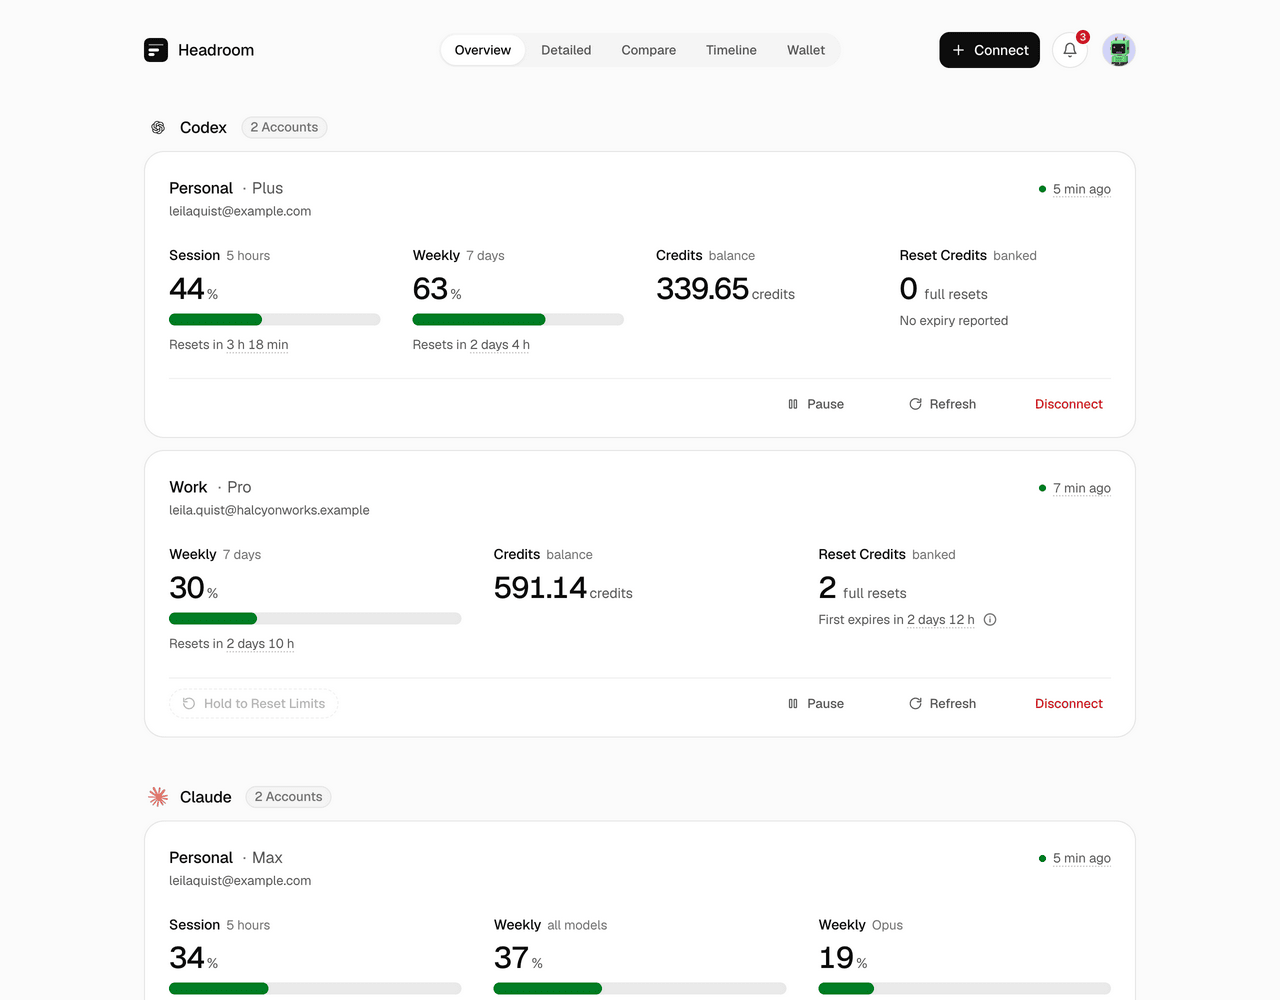
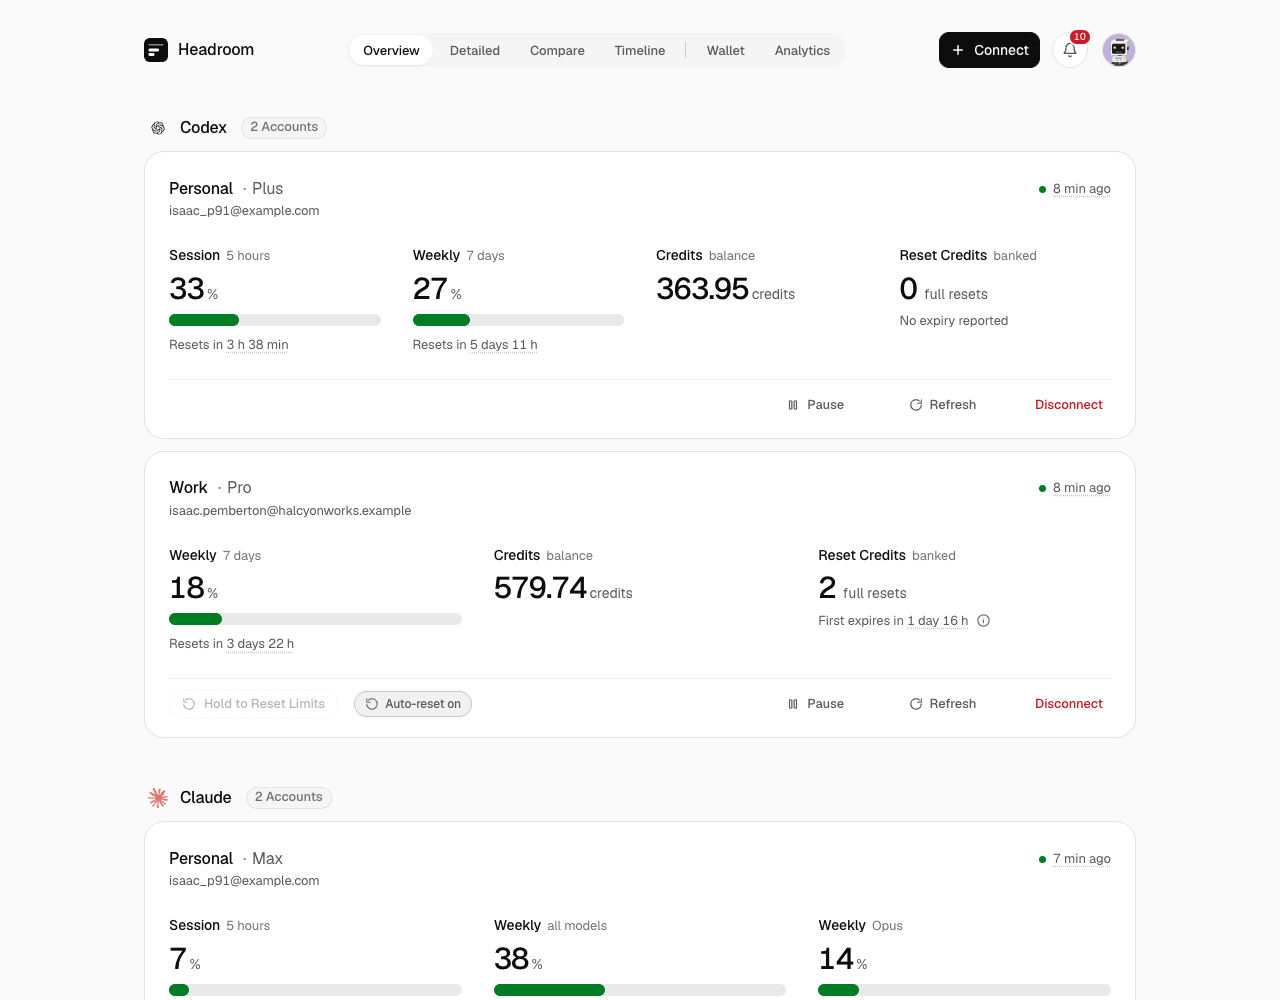
docs: describe Analytics in the README, roadmap and decisions
Add an Analytics feature line and screenshot, show the Detailed
screenshot, and retake the desktop screenshots so the view switcher
shows Analytics. Record D38 for history-based Analytics, mark it built
under M5, and list usage history in the docs index.

diff --git a/docs/decisions/README.md b/docs/decisions/README.md
@@ -41,6 +41,7 @@ This register distinguishes user requirements from implementation proposals. Dat
 | D35 | The public site is `site/index.html`, a single static page with no framework, built by `mise run site:build` into `dist-site/` with the demo (D34) at `demo/`, and deployed to GitHub Pages by `pages.yml` after each release. It embeds the demo in an iframe at a fixed logical size (1200 x 750, or 390 x 800 on phones), scaled to fit. While the demo loads, the page shows a skeleton that `scripts/site.ts` reads from the fresh demo build in headless Chrome through `playwright-core` (a pinned dev dependency, no browser download): the app's loading top bar plus the demo's first screen with every value turned into a placeholder, in both colour schemes | User decision 2026-10-09; applied | The visitor uses the real app, and the swap from skeleton to app changes only the placeholders. Reading the skeleton from the build keeps it true to the dashboard; the `site` job in CI fails when a dashboard change breaks it |
 | D36 | Headroom installs natively as one binary per platform as well as in Docker. Each release builds `headroom` for macOS (arm64, x64, ad-hoc signed) and Linux (x64, arm64) on native runners, smoke-tests it, and attaches `headroom-<os>-<arch>.tar.gz` plus `SHA256SUMS` to the GitHub release. Channels that deliver that binary: the installer at `https://headroom.theblank.club/install`, the Homebrew formula in `Formula/headroom.rb` (this repository is its own tap, so users tap it by URL), the `headroomhq` npm package (per-platform optional dependencies, for `npx`, `bunx`, `pnpm dlx`), the `headroomhq` PyPI wheels (for `uvx`, `pipx`), and mise's GitHub backend. A native install keeps data and keys in per-user folders, listens on 127.0.0.1, enables all seven providers, serves the web UI from inside the binary, and offers `headroom service install` to start at login. Sign-in methods that need a missing official CLI are reported unavailable instead of failing | Owner decision 2026-10-09; applied; npm and PyPI publishing are live as of release 0.1.3, and the Homebrew formula is `Formula/headroom.rb` | Docker is a chore for a personal tool; one command that works on a laptop or a home server widens who can run Headroom. `headroom` was taken on npm and PyPI, so the package name is `headroomhq` while the command stays `headroom`. Railway and Render come later. Windows needs the sign-in CLI runner to stop depending on POSIX shell shims first |
 | D37 | The Docker image installs the current sign-in CLIs at every build, not fixed pins: Codex's latest release, Claude Code's `stable` channel and Grok's stable release, each unmodified from its vendor. The `Image` workflow resolves the versions, hashes both Grok binaries, passes them to the `Dockerfile` as build arguments and records them as image labels. Its smoke test checks each version, then starts and cancels a sign-in with each CLI against the pushed image; a failure publishes no public tag. The `Dockerfile` defaults are the versions last validated by hand, for local builds | Owner decision 2026-10-10; applied | A CLI that changes its sign-in output breaks Connect. Current versions keep the image close to what the vendors support, and the smoke test stops a breaking release before it reaches `latest`. Claude Code's `stable` channel trails `latest` by about a week. The smoke test cannot finish a sign-in, so a change to a CLI's credentials file still shows only at the first real Connect |
+| D38 | Analytics reads only stored readings, through `GET /api/history?days=7\|30\|90&tz=<minutes>`. The server groups readings into hours of the viewer's local time, keeps the highest used percent of each hour per limit, lists the limit windows it saw, and lists failed refreshes. An hour with no reading stays out, and a failed refresh is a gap, never a zero. Percentages are never added across accounts; combined measures count accounts. Responses are cached in the process until a connection gets a new reading, sync run or account event. Usual working hours need 14 days of readings; until then the view assumes weekdays 08:00 to 20:00. Plan prices come from the Wallet; an account with no cost entered has an unknown price. Demo Mode makes up history in the same shape and never calls the route | User decision 2026-10-15; applied | Owners asked how their limits are used over time, per account and combined. Readings already exist for retention (D29), so no new collection is needed and no model request is made. See [the API](../architecture/api.md#history) |
 
 ## Decisions still needed
 

diff --git a/README.md b/README.md
@@ -43,6 +43,7 @@ Headroom holds the sign-in tokens for every AI account you connect. A hosted cop
 - **Every limit in one place.** 5-hour sessions, weekly pools, per-model limits, credit balances, banked resets and on-demand spend, side by side.
 - **Know which account to use next.** Compare ranks accounts of a provider by the room they have left and names the one to use.
 - **See resets coming.** Timeline lays every window on a calendar, so you know when headroom comes back.
+- **See how you use your limits.** Analytics shows when you work, when you run out, and whether each plan fits, from the readings Headroom stores.
 - **Track what you pay.** Wallet totals subscriptions, usage spend and top-ups in one currency, with upcoming renewals.
 - **Get warned in time.** In-app notices, Telegram and signed webhooks for limits running low, new and expiring resets, early resets, your own spend budgets and broken sign-ins.
 - **Automations you switch on.** Use a banked Codex reset when a limit runs out, and record credit top-ups in the Wallet as soon as a balance rises.
@@ -57,6 +58,8 @@ Headroom holds the sign-in tokens for every AI account you connect. A hosted cop
 | <img src="docs/assets/screenshots/overview.png" alt="Overview: one panel per account with its limits, credits and resets" width="420"> | <img src="docs/assets/screenshots/compare.png" alt="Compare: accounts of one provider ranked by room left, with a recommendation" width="420"> |
 | **Timeline** | **Wallet** |
 | <img src="docs/assets/screenshots/timeline.png" alt="Timeline: limit windows on a two-week calendar" width="420"> | <img src="docs/assets/screenshots/wallet.png" alt="Wallet: monthly spend by provider, top-ups and renewals" width="420"> |
+| **Analytics** | **Detailed** |
+| <img src="docs/assets/screenshots/analytics.png" alt="Analytics: when each account is busy, hour by hour, and which plans fit" width="420"> | <img src="docs/assets/screenshots/detailed.png" alt="Detailed: every account in one list, closest to its limit first" width="420"> |
 | **Connect** | **Light theme** |
 | <img src="docs/assets/screenshots/connect.png" alt="Connect: pick a provider and manage connected accounts" width="420"> | <img src="docs/assets/screenshots/overview-light.png" alt="Overview in the light theme" width="420"> |
 

diff --git a/docs/roadmap.md b/docs/roadmap.md
@@ -65,7 +65,7 @@ Completion: a non-admin and an admin account each validate separately. Pool name
 
 ## M5: Dashboard and history
 
-Status: built. The web app has account cards, quota buckets, balances, reset countdowns, stale and partial states, interface labels, manual refresh, and compare, detailed, timeline and Wallet views, on a Vite app served from the binary. Desktop, mobile and keyboard checks continue with each change.
+Status: built. Analytics charts are drawn only from stored observations (D38). The web app has account cards, quota buckets, balances, reset countdowns, stale and partial states, interface labels, manual refresh, and compare, detailed, timeline, Wallet and Analytics views, on a Vite app served from the binary. Desktop, mobile and keyboard checks continue with each change.
 
 Account cards, independent quota buckets, balance and spend views, reset countdowns and reset inventories, stale and partial states, private-interface labels, manual refresh. Historical charts only from stored observations. Choose the UI stack then: a small embedded Vite app or server-rendered templates. Validate desktop, mobile and keyboard use.
 

diff --git a/docs/README.md b/docs/README.md
@@ -29,7 +29,7 @@ Each dossier describes metrics, connection steps, tools, limitations and sources
 
 ## Shared references
 
-- [HTTP API](architecture/api.md): overview, display name, settings, the Wallet, and the account-actions gate.
+- [HTTP API](architecture/api.md): overview, display name, settings, the Wallet, usage history for Analytics, and the account-actions gate.
 - [Notifications](architecture/notifications.md): what raises a notification, the event schema, and server-side delivery to Telegram and webhooks.
 - [Connector contract](architecture/connector-contract.md): the TypeScript interface every provider package implements, in `packages/core/src/connector.ts`.
 - [Deployment and credential storage](architecture/deployment.md): single binary, SQLite, master key and backups.
